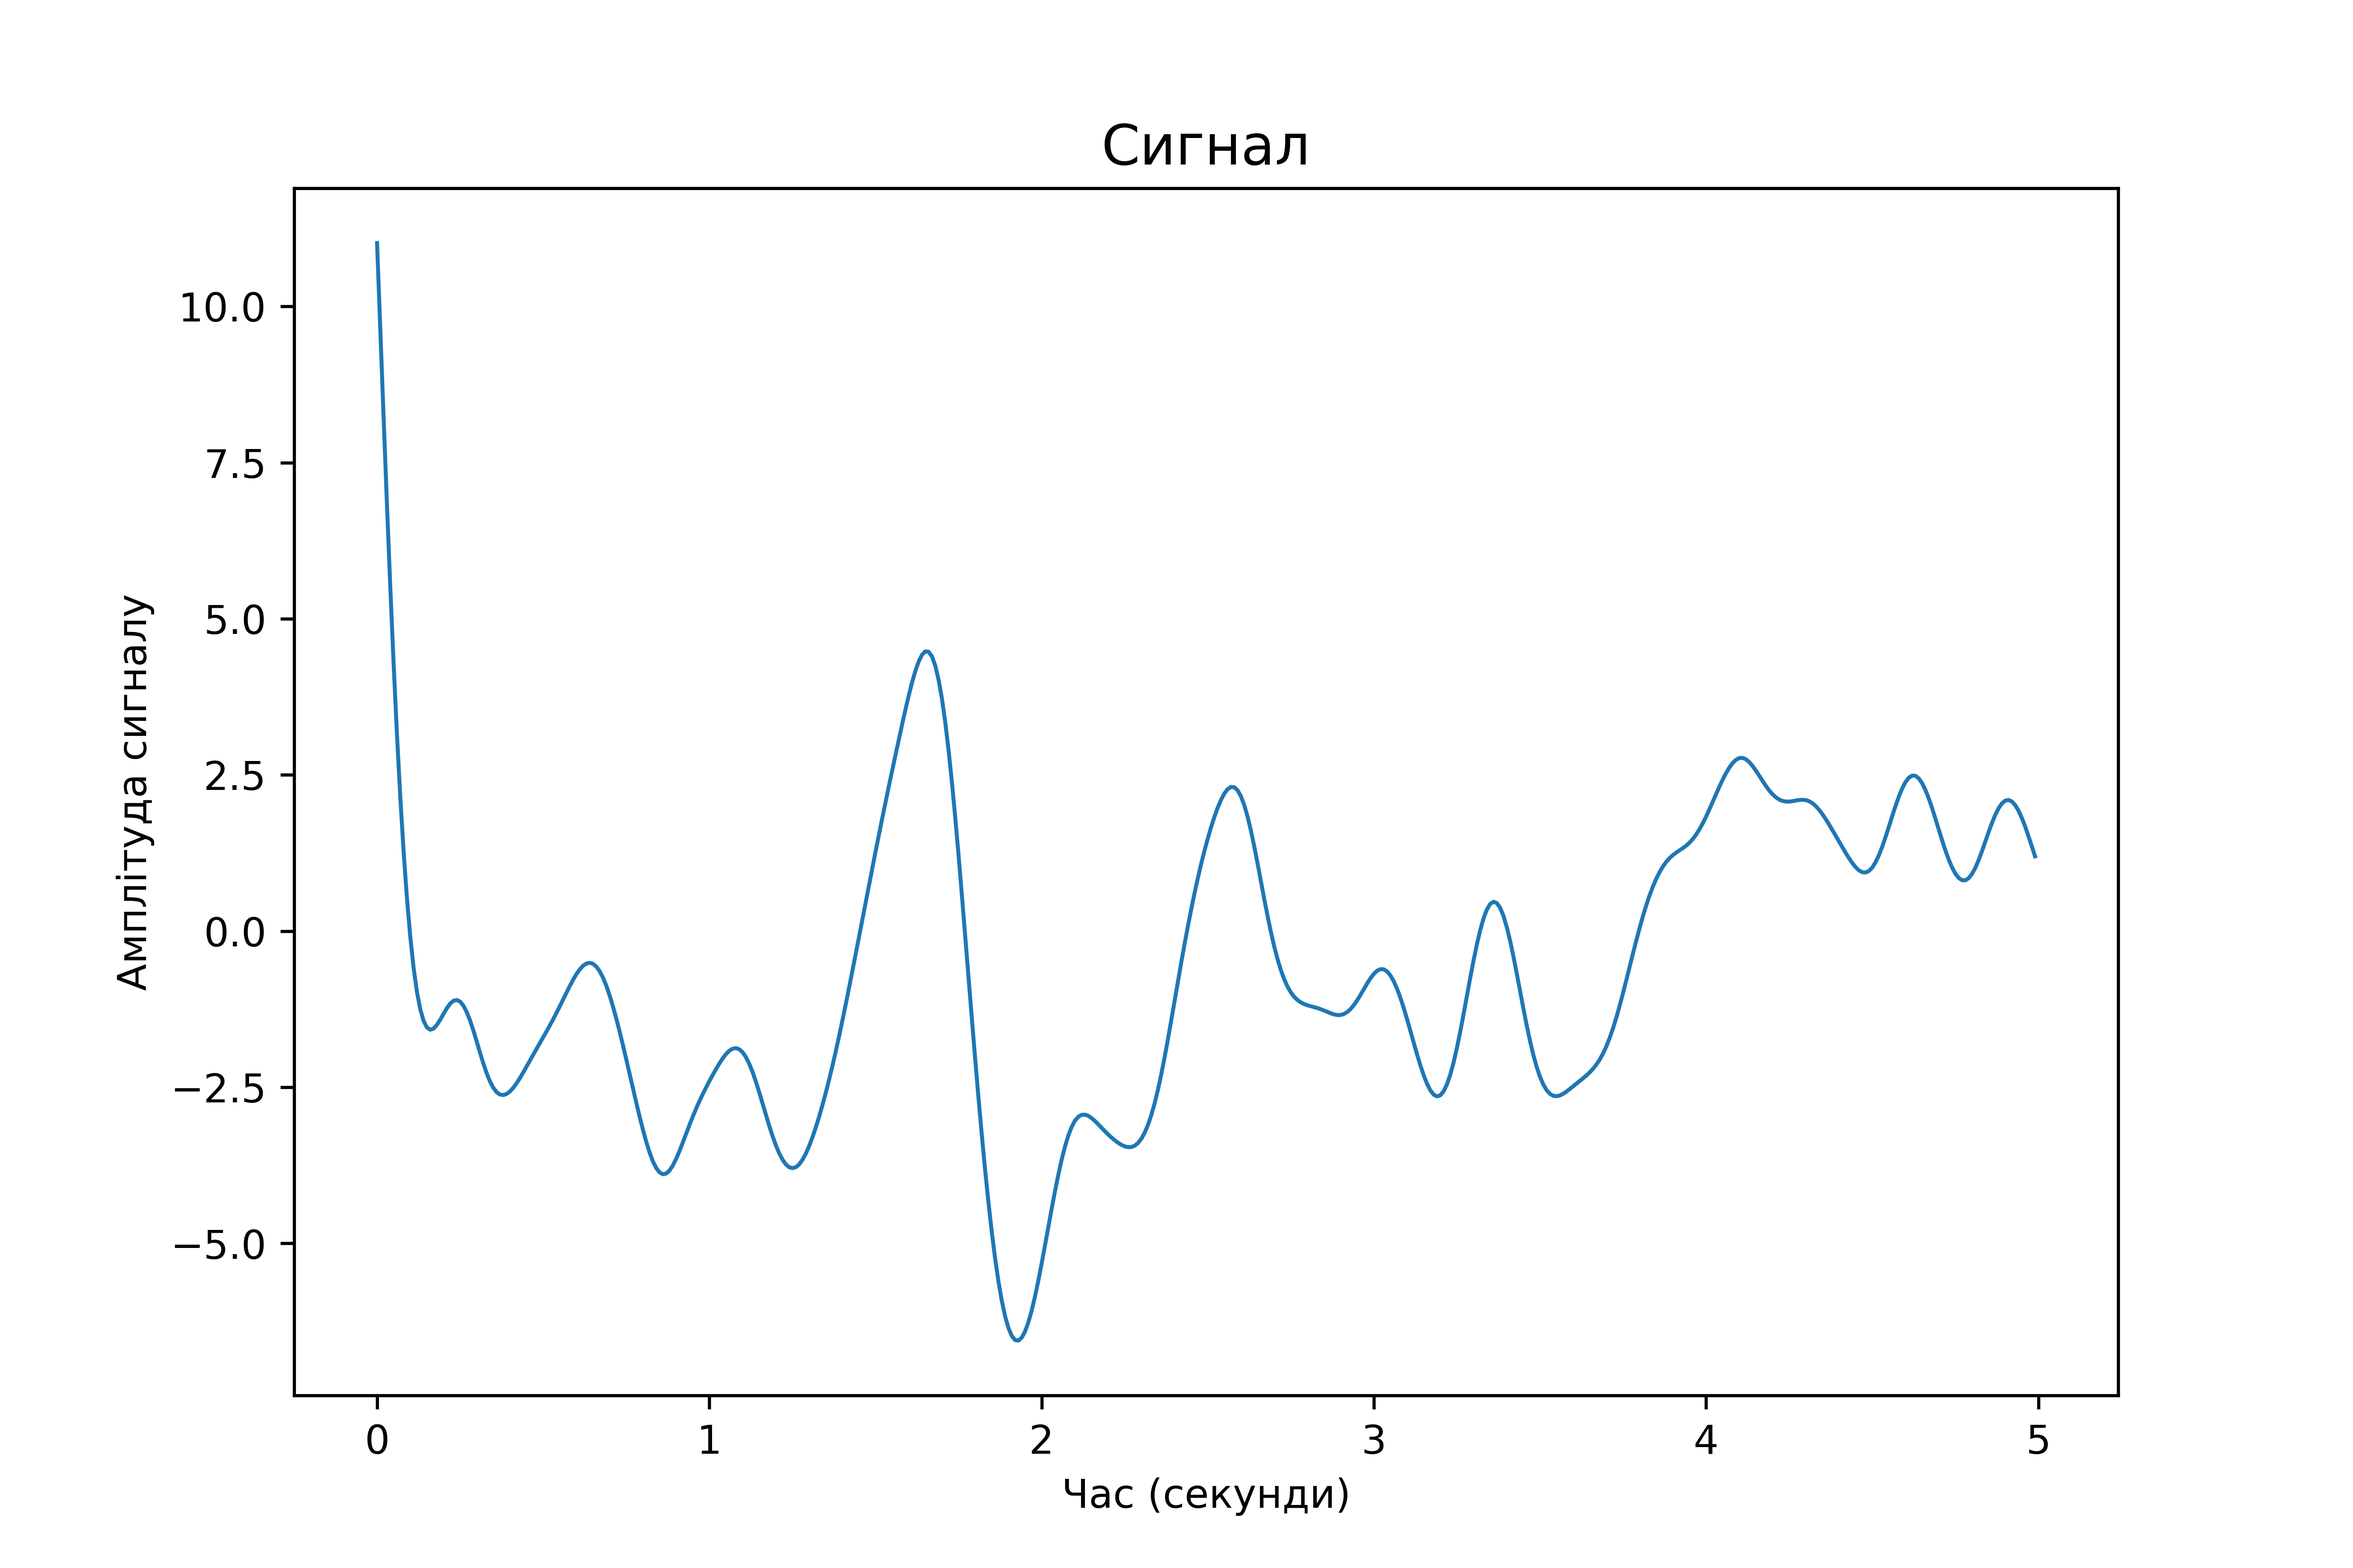
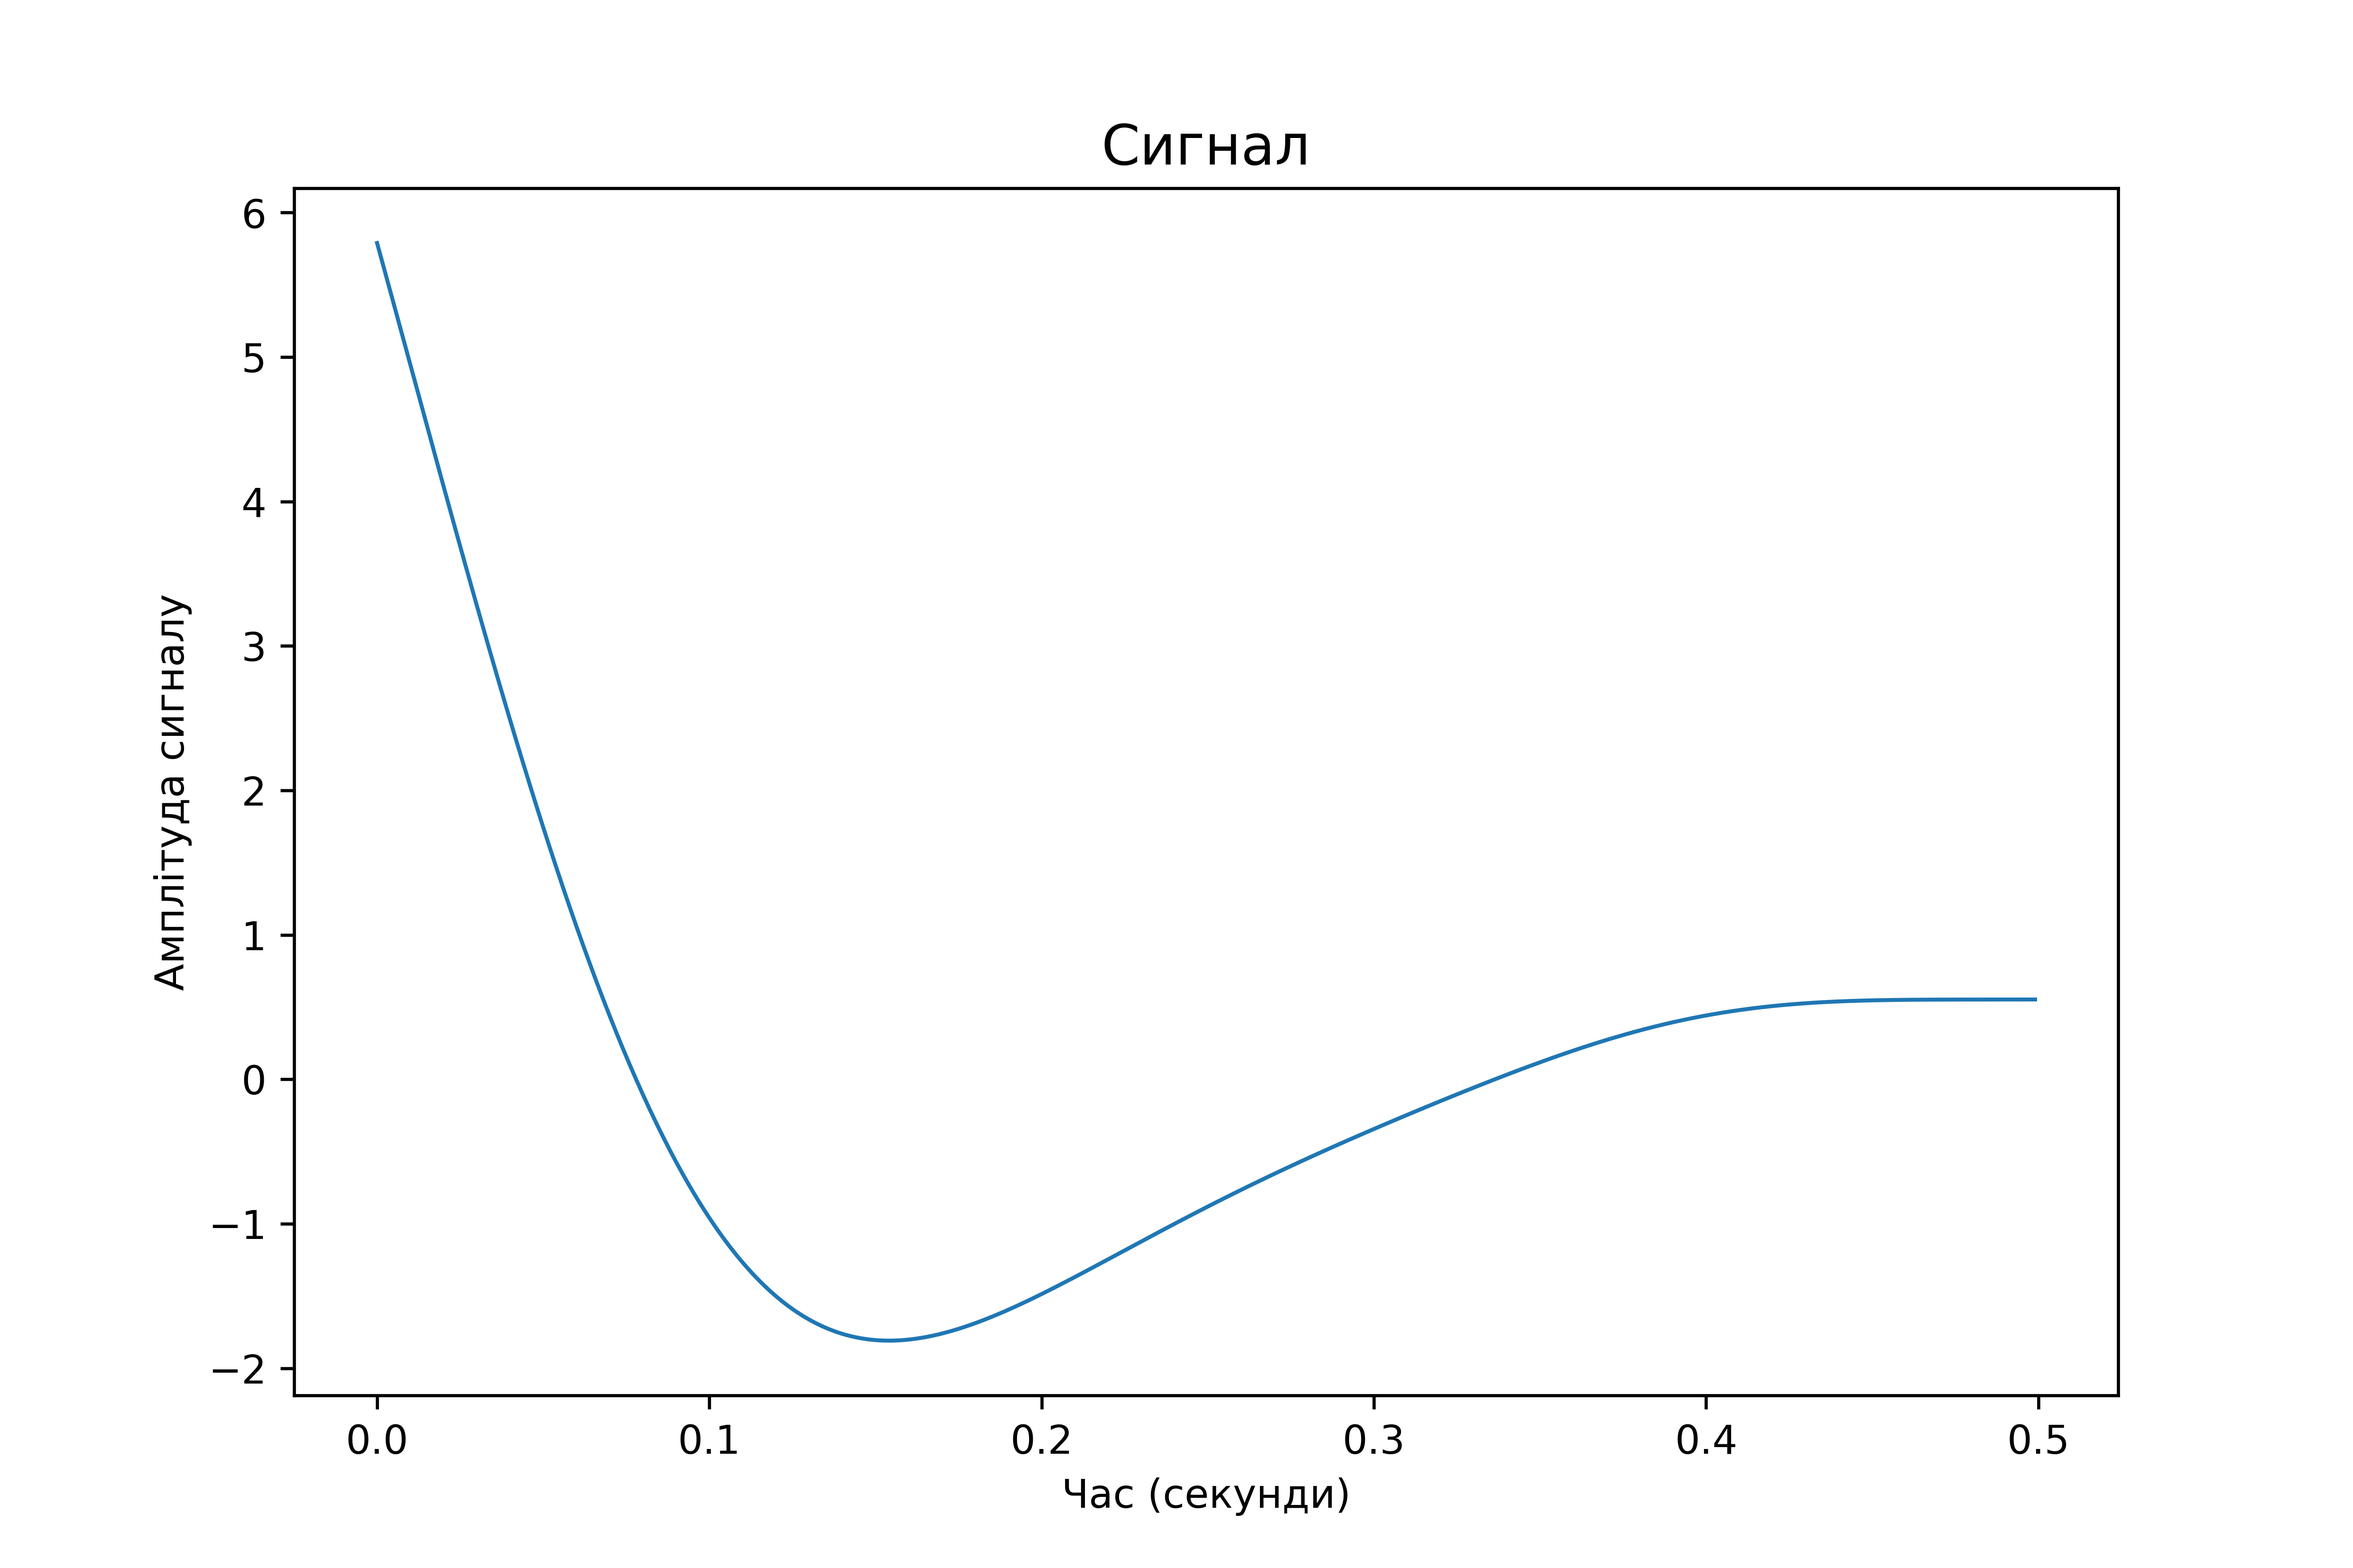
SignalProcessing, 1, change

diff --git a/SignalProcessing/figures/SignalProcessing.py b/SignalProcessing/figures/SignalProcessing.py
@@ -7,7 +7,7 @@ class Main:
 
     def __init__(self):
         self.n = 500
-        self.Fs = 100
+        self.Fs = 1000
         self.FMax = 3
 
     def main(self):
